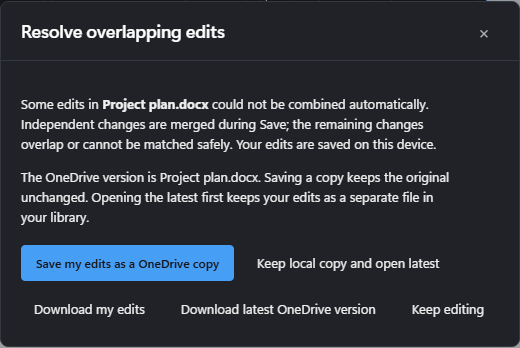
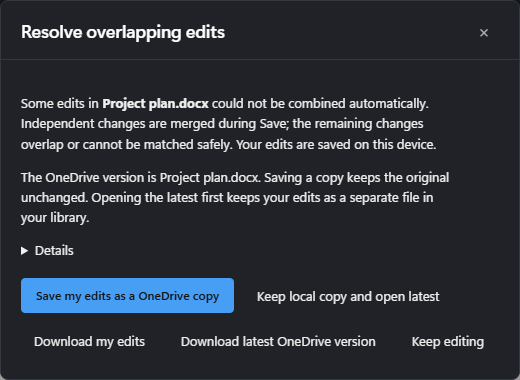
docs: document onedrive configuration, conflicts, stale edits and launch links
Claude-Session: https://claude.ai/code/session_01Fri9BwUqvMcQRQ5QMApvmc

diff --git a/docs/onedrive-quickstart.md b/docs/onedrive-quickstart.md
@@ -7,14 +7,14 @@ handling and sharing in detail.
 
 ![How the pieces connect](images/onedrive/flow.svg)
 
-The library does the OneDrive part: it resolves a sharing link, downloads the file, and uploads
-saved bytes back to the same file. **Your application does two things the library deliberately
-does not:**
+The library does the OneDrive part: it browses the user's drive (recent files, folders, search),
+resolves sharing links, downloads the file, uploads saved bytes back to the same file and combines
+concurrent edits where it safely can. Every product's **File > Open** shows the same OneDrive place
+and file browser. **Your application does one thing the library deliberately does not:** sign the
+user in to Microsoft and hand the library a Microsoft Graph access token.
 
-1. **Sign the user in to Microsoft** and hand the library a Microsoft Graph access token.
-2. **Ask which file to open.** There is no built-in file browser. The user pastes a OneDrive sharing
-   link (the integrated Office app has a dialog for this; in your own app you add a link box or your
-   own picker).
+Everything else has a default you can change or replace: see
+[Configure or replace anything](#configure-or-replace-anything).
 
 ## 1. Register an application in Microsoft Entra
 
@@ -143,6 +143,25 @@ OneDrive** gives you a link without saving first; when your latest edits are onl
 the share dialog says so.
 
 ![PowerPoint in the Office app, with Saved to OneDrive in the status bar](images/onedrive/suite-powerpoint-saved.png)
+
+When an upload meets a newer OneDrive version, Save first combines both sets of edits. When they
+cannot be combined, the conflict dialog keeps both versions and offers the recovery choices; its
+**Details** section lists why combining stopped and which parts of the file changed in OneDrive and
+on this device since you opened it (useful to tell another editor or AutoSave apart from your own
+change).
+
+![The OneDrive conflict dialog with its recovery choices](images/onedrive/suite-conflict.png)
+
+Reopening a file whose edits on this device never reached OneDrive asks first when OneDrive has a
+newer version meanwhile: **Keep my edits** carries on where you left off (Save then combines them
+with the newer version where possible), and **Open the OneDrive version** loads the newer file and
+keeps your edits as a separate " (local edits)" file in your library. When OneDrive has not changed,
+your edits are kept and a notice says they are not saved yet.
+
+The installed app (PWA) also opens OneDrive links: a link shared to the app, a
+`web+ooxml:<link>` address, or `?open=<link>` on the app's address shows the Open dialog with the
+link filled in, for the user to confirm. Set `launchLinks: false` to turn this off, or
+`launchLinks: { param, accept }` to rename the parameter or choose which links are accepted.
 
 Without `ooxmlOneDriveOptions`, the app explains that sign-in has not been connected:
 
@@ -368,6 +387,27 @@ Word, Excel and Visio use the same client and session; only the editor wiring di
 [Word](../viewers/docx/docs/onedrive.md), [Excel](../viewers/xlsx/docs/onedrive.md),
 [Visio](../viewers/visio/docs/onedrive.md) and the other
 [PowerPoint bindings](../viewers/pptx/docs/guide/onedrive.md).
+
+## Configure or replace anything
+
+Every piece above is a default you can change, or replace with your own:
+
+| You want to change                              | Set                                                                                       | Reference                                                                                              |
+| ----------------------------------------------- | ----------------------------------------------------------------------------------------- | ------------------------------------------------------------------------------------------------------ |
+| Sign-in, the account shown, sign-out            | `getAccessToken`, `signIn`, `signOut`, `account`                                          | [Authentication](onedrive-integration.md#authentication-and-item-permissions)                          |
+| Which files open editable                       | `canWrite(file)`                                                                          | [Authentication](onedrive-integration.md#authentication-and-item-permissions)                          |
+| Requests (proxy, retries, headers)              | `fetch`                                                                                   | [Package reference](onedrive-integration.md#package-reference)                                         |
+| How concurrent edits combine                    | `mergers` per format, your own `merge` for all formats, or `merge: false` to always ask   | [Combine concurrent edits](onedrive-integration.md#automatically-combine-concurrent-edits-during-save) |
+| How often Save rebases on a newer version       | `maxMergeAttempts` (default 3)                                                            | [Combine concurrent edits](onedrive-integration.md#automatically-combine-concurrent-edits-during-save) |
+| The conflict dialog (Office app)                | `resolveConflict`                                                                         | [Custom storage integrations](storage-integrations.md)                                                 |
+| Sharing choices (Office app)                    | `shareChoices`                                                                            | [Custom storage integrations](storage-integrations.md)                                                 |
+| Opening links in the installed app              | `launchLinks: false` or `{ param, accept }`                                               | [Integrated Office Suite](onedrive-integration.md#integrated-office-suite)                             |
+| Another cloud (SharePoint library, your server) | your own `CloudFileProvider` in `fileProviders`, or `ooxmlCloudOptions` in the Office app | [Custom storage integrations](storage-integrations.md)                                                 |
+| Saving somewhere else entirely                  | your own `DocumentStorage`                                                                | [Custom storage integrations](storage-integrations.md)                                                 |
+
+The provider and the editors meet only through two small contracts in `ooxml-core/embedding`:
+`CloudFileProvider` (browse and open) and `DocumentStorage` (save). Implement either and the same
+File > Open place, file browser, Save, conflict and read-only handling work with your backend.
 
 ## Try it in the PowerPoint demos
 

diff --git a/docs/onedrive-integration.md b/docs/onedrive-integration.md
@@ -261,6 +261,24 @@ const session = createOneDriveSession(drive, opened, {
 });
 ```
 
+The file provider takes the same choice, so File > Open in every product combines edits the way
+you decide:
+
+```ts
+createOneDriveFileProvider({
+	getAccessToken,
+	signIn,
+	mergers: { docx: wordMerge, pptx: slidesMerge }, // per format; a format without one asks
+	// merge: myMerge, // your own merge for every format, in place of `mergers`
+	// merge: false, // never merge: a newer OneDrive version always opens the conflict choices
+	maxMergeAttempts: 3,
+});
+```
+
+The Office app reads `merge` (`false` or your own function), `mergers` (replace a format's merger,
+or disable it with `{ xlsx: undefined }`) and `maxMergeAttempts` from `ooxmlOneDriveOptions` the
+same way.
+
 | Product    | Merger                   | Import                    |
 | ---------- | ------------------------ | ------------------------- |
 | Word       | `mergeDocxSnapshots`     | `ooxml-core/docx`         |
@@ -438,6 +456,36 @@ and a pending-cloud state, including after a reload. The pending label is **Save
 OneDrive save pending**. Local document commits derive pending state from content versus the
 cloud baseline, including edits from assistant operations and version restoration. Changed cloud
 content cannot be committed as editable content while its host permission is read-only.
+
+The conflict dialog's **Details** section, computed when first expanded, lists the merge issues
+and which package parts changed in OneDrive and on this device since the file was opened
+(`diffOpcPackages` from `ooxml-core/opc`). **Share in OneDrive** never saves first: it creates or
+copies the link of the OneDrive file as it is, and says so when the latest edits are only on this
+device. Reopening a document with edits that never reached OneDrive compares the stored eTag with
+OneDrive's: unchanged, the edits are kept with a notice; changed, the user chooses between keeping
+the edits (Save combines them) and opening the OneDrive version, which keeps the edits as a separate
+" (local edits)" library file. Nothing is replaced silently.
+
+The installed app opens `?open=<link>` launches: its manifest declares a share target (a link
+shared to the app) and a `web+ooxml:` protocol handler (suite only), both of which fill that
+parameter. The Open dialog is shown with the link filled in; the user confirms, which also gives a
+sign-in popup the click browsers require. Only OneDrive and SharePoint https links are accepted by
+default. Configure it in `ooxmlOneDriveOptions` (or `ooxmlCloudOptions`, where a custom provider
+must supply `accept` to opt in):
+
+```ts
+globalThis.ooxmlOneDriveOptions = {
+	getAccessToken,
+	launchLinks: {
+		param: 'open',
+		accept: (link) => link.startsWith('https://contoso.sharepoint.com/'),
+	},
+	// launchLinks: false, // never open launch links
+};
+```
+
+The manifest's share target and protocol handler always fill `open`; a host that renames the
+parameter serves its own manifest.
 
 The suite's native Save As downloads a separate copy; explicit cloud-copy recovery is available
 from the conflict dialog. That dialog preserves both versions and offers the recovery choices
